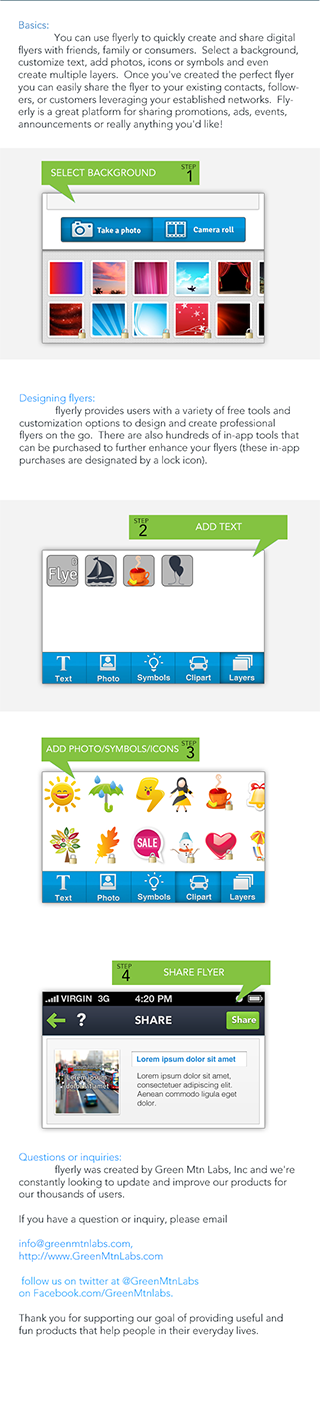
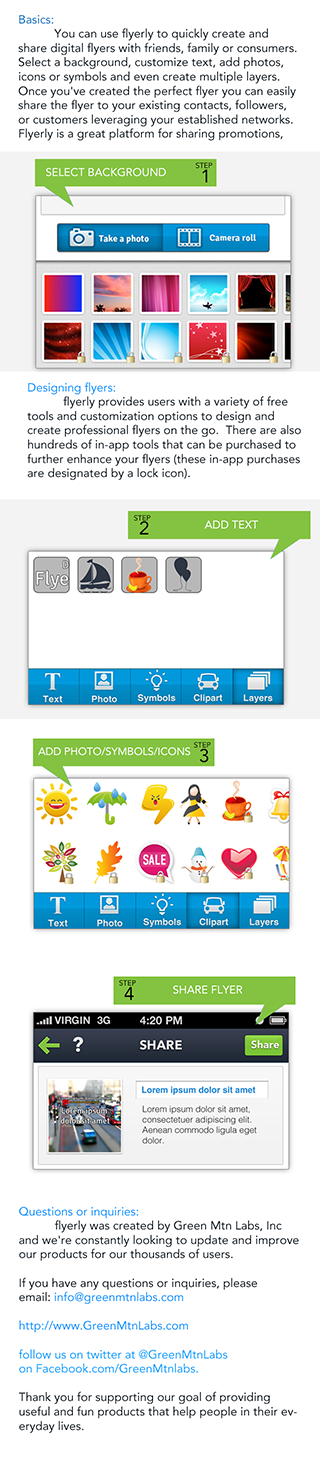
Updated help center, rate this app link for iOS7, and position of lock view

diff --git a/Classes/HelpController.m b/Classes/HelpController.m
@@ -64,18 +64,20 @@
 
     if(IS_IPHONE_5){
         [doneButton setFrame:CGRectMake(doneButton.frame.origin.x, 1340, doneButton.frame.size.width, doneButton.frame.size.height)];
-        emailButton = [[UIButton alloc] initWithFrame:CGRectMake(14, 1335, 120, 10)];
-        linkButton = [[UIButton alloc] initWithFrame:CGRectMake(14, 1348, 150, 10)];
-        linkFaceBook = [[UIButton alloc] initWithFrame:CGRectMake(14, 1386, 157, 10)];
-        twitLink = [[UIButton alloc] initWithFrame:CGRectMake(14, 1375, 185, 10)];
+        emailButton = [[UIButton alloc] initWithFrame:CGRectMake(55, 1357, 130, 10)];
+        linkButton = [[UIButton alloc] initWithFrame:CGRectMake(16, 1386, 172, 10)];
+        twitLink = [[UIButton alloc] initWithFrame:CGRectMake(16, 1417, 212, 10)];
+        linkFaceBook = [[UIButton alloc] initWithFrame:CGRectMake(16, 1431, 190, 10)];
+
 
     } else {
         [doneButton setFrame:CGRectMake(doneButton.frame.origin.x, 1390, doneButton.frame.size.width, doneButton.frame.size.height)];
 
-        emailButton = [[UIButton alloc] initWithFrame:CGRectMake(14, 1246, 120, 10)];
-        linkButton = [[UIButton alloc] initWithFrame:CGRectMake(14, 1257, 150, 10)];
-        linkFaceBook = [[UIButton alloc] initWithFrame:CGRectMake(14, 1386, 120, 10)];
-        twitLink = [[UIButton alloc] initWithFrame:CGRectMake(14, 1283, 185, 10)];
+        emailButton = [[UIButton alloc] initWithFrame:CGRectMake(55, 1266, 130, 10)];
+        linkButton = [[UIButton alloc] initWithFrame:CGRectMake(16, 1295, 172, 10)];
+        twitLink = [[UIButton alloc] initWithFrame:CGRectMake(16, 1323, 212, 10)];
+        linkFaceBook = [[UIButton alloc] initWithFrame:CGRectMake(16, 1336, 190, 10)];
+
 
     }
     emailButton.showsTouchWhenHighlighted = YES;
@@ -83,8 +85,10 @@
     linkFaceBook.showsTouchWhenHighlighted = YES;
     twitLink.showsTouchWhenHighlighted = YES;
 
-  //  linkFaceBook.backgroundColor = [UIColor blackColor];
-   // twitLink.backgroundColor = [UIColor blackColor];
+    //emailButton.backgroundColor = [UIColor blackColor];
+    //linkButton.backgroundColor = [UIColor blackColor];
+    //twitLink.backgroundColor = [UIColor blackColor];
+    //linkFaceBook.backgroundColor = [UIColor blackColor];
 
     [emailButton addTarget:self action:@selector(openEmail:) forControlEvents:UIControlEventTouchUpInside];
     //emailButton.titleLabel.font = [UIFont fontWithName:@"Signika-Semibold" size:10];

diff --git a/Classes/PhotoController.m b/Classes/PhotoController.m
@@ -875,7 +875,7 @@ int photoLayerCount = 0; // Photo layer count to set tag value
 
                 if(![self isProductPurchased:productToCheck]){
                     UIImageView *lock = [[UIImageView alloc] initWithImage:[UIImage imageNamed:@"lock"]];
-                    lock.frame = CGRectMake(25, 24, 17, 19);
+                    lock.frame = CGRectMake(color.frame.origin.x-15, 24, 17, 19);
                     [color addSubview:lock];
                     color.userInteractionEnabled = NO;
                 }
@@ -1339,7 +1339,7 @@ int arrangeLayerIndex;
             ((CustomLabel*)[[self textLabelLayersArray]  objectAtIndex:arrangeLayerIndex]).font =selectedFont;
             ((CustomLabel*)[[self textLabelLayersArray]  objectAtIndex:arrangeLayerIndex]).numberOfLines = 0;
             ((CustomLabel*)[[self textLabelLayersArray]  objectAtIndex:arrangeLayerIndex]).lineBreakMode = UILineBreakModeCharacterWrap;
-            /*
+                /*
             [ ((CustomLabel*)[[self textLabelLayersArray]  objectAtIndex:arrangeLayerIndex]) setFrame:CGRectMake(((CustomLabel*)[[self textLabelLayersArray]  objectAtIndex:arrangeLayerIndex]).frame.origin.x, ((CustomLabel*)[[self textLabelLayersArray]  objectAtIndex:arrangeLayerIndex]).frame.origin.y, ((CustomLabel*)[[self textLabelLayersArray]  objectAtIndex:arrangeLayerIndex]).frame.size.width +selectedSize, ((CustomLabel*)[[self textLabelLayersArray]  objectAtIndex:arrangeLayerIndex]).frame.size.height)];*/
 		}
 		i++;

diff --git a/Classes/SettingViewController.m b/Classes/SettingViewController.m
@@ -159,11 +159,11 @@
     [[NSUserDefaults standardUserDefaults] setObject:@"enabled" forKey:@"facebookSetting"];    
 }
 -(IBAction)OntwitterComments{
-    InputViewController  *input = [[InputViewController alloc]initWithNibName:@"InputViewController" bundle:nil];
-    [self.navigationController presentModalViewController:input animated:YES];
+    InputViewController  *inputv = [[InputViewController alloc]initWithNibName:@"InputViewController" bundle:nil];
+    [self.navigationController presentModalViewController:inputv animated:YES];
 }
 
--(IBAction)RatefacbookApp:(id)sender{
+-(IBAction)RateApp:(id)sender{
     float ver = [ globle.iosVersion floatValue];
     NSString* url;
     if (ver >= 7) {

diff --git a/Classes/SettingViewController.h b/Classes/SettingViewController.h
@@ -32,7 +32,7 @@
     Singleton *globle;
     OFFlickrAPIRequest *flickrRequest;
     LauchViewController *launchController;
-    InputViewController *input;
+    InputViewController *inputv;
 
 }
 
@@ -61,7 +61,7 @@
 -(IBAction)makeEmail;
 -(IBAction)OntwitterComments;
 -(IBAction)onClickSaveToCameraRollSwitchButton;
--(IBAction)RatefacbookApp:(id)sender;
+-(IBAction)RateApp:(id)sender;
 -(void)gohelp;
 
 

diff --git a/Classes/LocationController.m b/Classes/LocationController.m
@@ -378,7 +378,7 @@ NSMutableDictionary *locationDetails;
     
     // search near by
     [self searchNearBy];
-      [self.uiTableView reloadData];
+    [self.uiTableView reloadData];
 }
 
 /*
